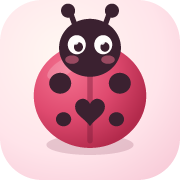
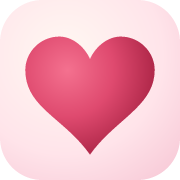
Add a quiet tulip garden, heart branding, smoother hands and full-screen celebrations

Changed region(s): [[0.1389, 0.0, 0.8611, 0.8611], [0.5833, 0.3889, 0.75, 0.5278]]

diff --git a/public/index.html b/public/index.html
@@ -9,8 +9,8 @@
   <meta name="description" content="Six cozy games for Dylan and Audrey. One room, wherever you are.">
   <title>Our Little Arcade · Dylan &amp; Audrey</title>
 
-  <link rel="icon" href="favicon.svg" type="image/svg+xml">
-  <link rel="apple-touch-icon" href="apple-touch-icon.png">
+  <link rel="icon" href="favicon.svg?v=heart2" type="image/svg+xml">
+  <link rel="apple-touch-icon" href="apple-touch-icon.png?v=heart2">
   <link rel="mask-icon" href="mask-icon.svg" color="#ae3155">
   <link rel="manifest" href="manifest.webmanifest">
 
@@ -24,19 +24,19 @@
 <body>
   <header>
     <a class="brand" href="./">
-      <span class="brandmark lovebug-spot" data-lovebug-size="26" data-lovebug-tilt="0" aria-hidden="true">♥</span>
+      <span class="brandmark" aria-hidden="true">♥</span>
       our little arcade
       <span class="tiny">Two Lovebugs</span>
     </a>
     <div class="dedication">Dylan <span>♥</span> Audrey</div>
     <button id="notificationSettings" class="icon" aria-label="Message alerts and sound settings">✦ Alerts</button>
+    <button id="disableLadybugs" class="icon" aria-pressed="true">Hide ladybugs</button>
     <button id="sound" class="icon" aria-label="Toggle sound" aria-pressed="true">♪ Sound on</button>
   </header>
 
   <!-- ─────────────────────────────────── start menu ─────────────────────────────────── -->
   <section id="menu" class="start-menu">
     <div class="menu-heading">
-      <span class="lovebug-spot menu-bug" data-lovebug-size="46" data-lovebug-tilt="14" aria-hidden="true"></span>
       <h1>Our little <em>arcade.</em></h1>
       <p>A little rivalry. A whole lot of love.</p>
     </div>
@@ -356,7 +356,6 @@
       </section>
 
       <section class="card chat">
-        <span class="lovebug-spot chat-bug" data-lovebug-size="24" data-lovebug-tilt="-20" aria-hidden="true"></span>
         <div class="cardtop">
           <h3>Love notes <span aria-hidden="true">♡</span> <span class="unread-badge" id="desktopUnread" hidden>0</span>
           </h3>
@@ -404,8 +403,8 @@
     <button data-panel="room">⌂<span>Room</span></button>
   </nav>
 
+  <div class="tulip-garden" aria-hidden="true"><img src="/tulips.webp" alt="" width="400" height="600"><img src="/tulips.webp" alt="" width="400" height="600"><img src="/tulips.webp" alt="" width="400" height="600"><img src="/tulips.webp" alt="" width="400" height="600"><img src="/tulips.webp" alt="" width="400" height="600"></div>
   <footer>
-    <span class="lovebug-spot footer-bug" data-lovebug-size="26" data-lovebug-tilt="10" aria-hidden="true"></span>
     Different places. Same little world. <span aria-hidden="true">♥</span>
   </footer>
 

diff --git a/public/style.css b/public/style.css
@@ -2658,3 +2658,6 @@ dialog p {
     scroll-behavior: auto !important;
   }
 }
+/* Garden details belong behind the activity, never over its controls. */
+body{isolation:isolate}.lovebug-layer{z-index:-1;opacity:.5}.card{background:#fffafa}.lovebug-dot{opacity:.15}.lovebug-spot{display:none}#disableLadybugs{white-space:nowrap}#victoryConfetti{position:fixed;inset:0;pointer-events:none;z-index:0}#victoryConfetti span{font-size:var(--size);top:-8vh;animation:garden-confetti var(--duration) var(--delay) linear infinite}.victory-card{z-index:1}@keyframes garden-confetti{0%{transform:translate3d(0,0,0) rotate(0);opacity:0}8%{opacity:.85}90%{opacity:.8}100%{transform:translate3d(var(--drift),116vh,0) rotate(var(--spin));opacity:0}}@media(max-width:760px){header{height:auto;min-height:68px;flex-wrap:wrap;padding-top:10px;padding-bottom:10px}.brand{flex:1 1 100%}#disableLadybugs{font-size:12px}}@media(prefers-reduced-motion:reduce){#victoryConfetti span{animation:none}}
+.tulip-garden{height:205px;width:100%;display:flex;align-items:flex-end;justify-content:space-around;overflow:hidden;pointer-events:none;position:relative;margin-top:20px;opacity:.9}.tulip-garden img{height:210px;width:140px;object-fit:contain;flex:none;transform-origin:50% 100%;animation:tulip-breeze 7s ease-in-out infinite alternate}.tulip-garden img:nth-child(2n){height:165px;width:110px;animation-delay:-3s;animation-duration:9s}.tulip-garden img:nth-child(3){animation-delay:-5s}.tulip-garden img:nth-child(5){animation-delay:-2s}.in-game .tulip-garden{margin-top:0}footer{margin-top:-8px}@keyframes tulip-breeze{from{transform:rotate(-2deg)}to{transform:rotate(2deg)}}@media(max-width:760px){.tulip-garden{height:150px}.tulip-garden img{height:155px;width:104px}.tulip-garden img:nth-child(2n){height:130px;width:87px}.tulip-garden img:nth-child(n+4){display:none}}@media(prefers-reduced-motion:reduce){.tulip-garden img{animation:none}}
